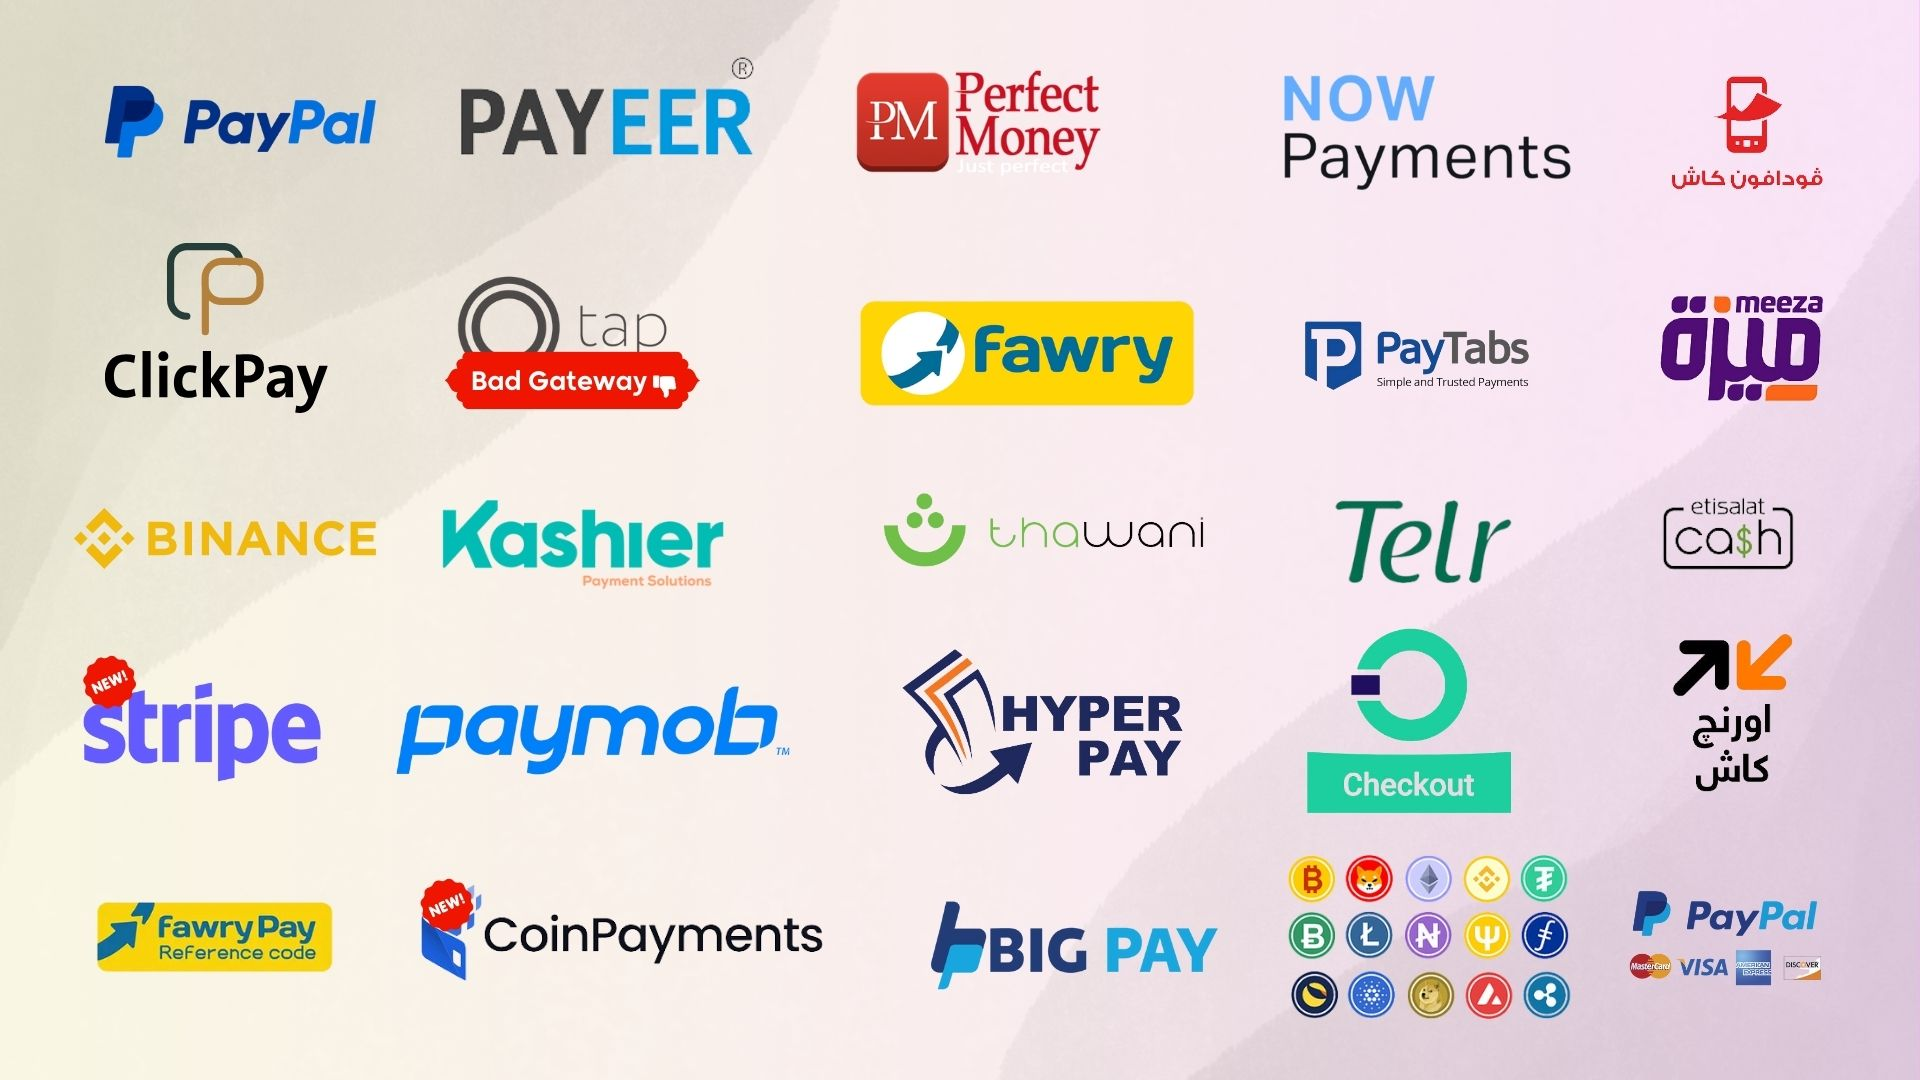
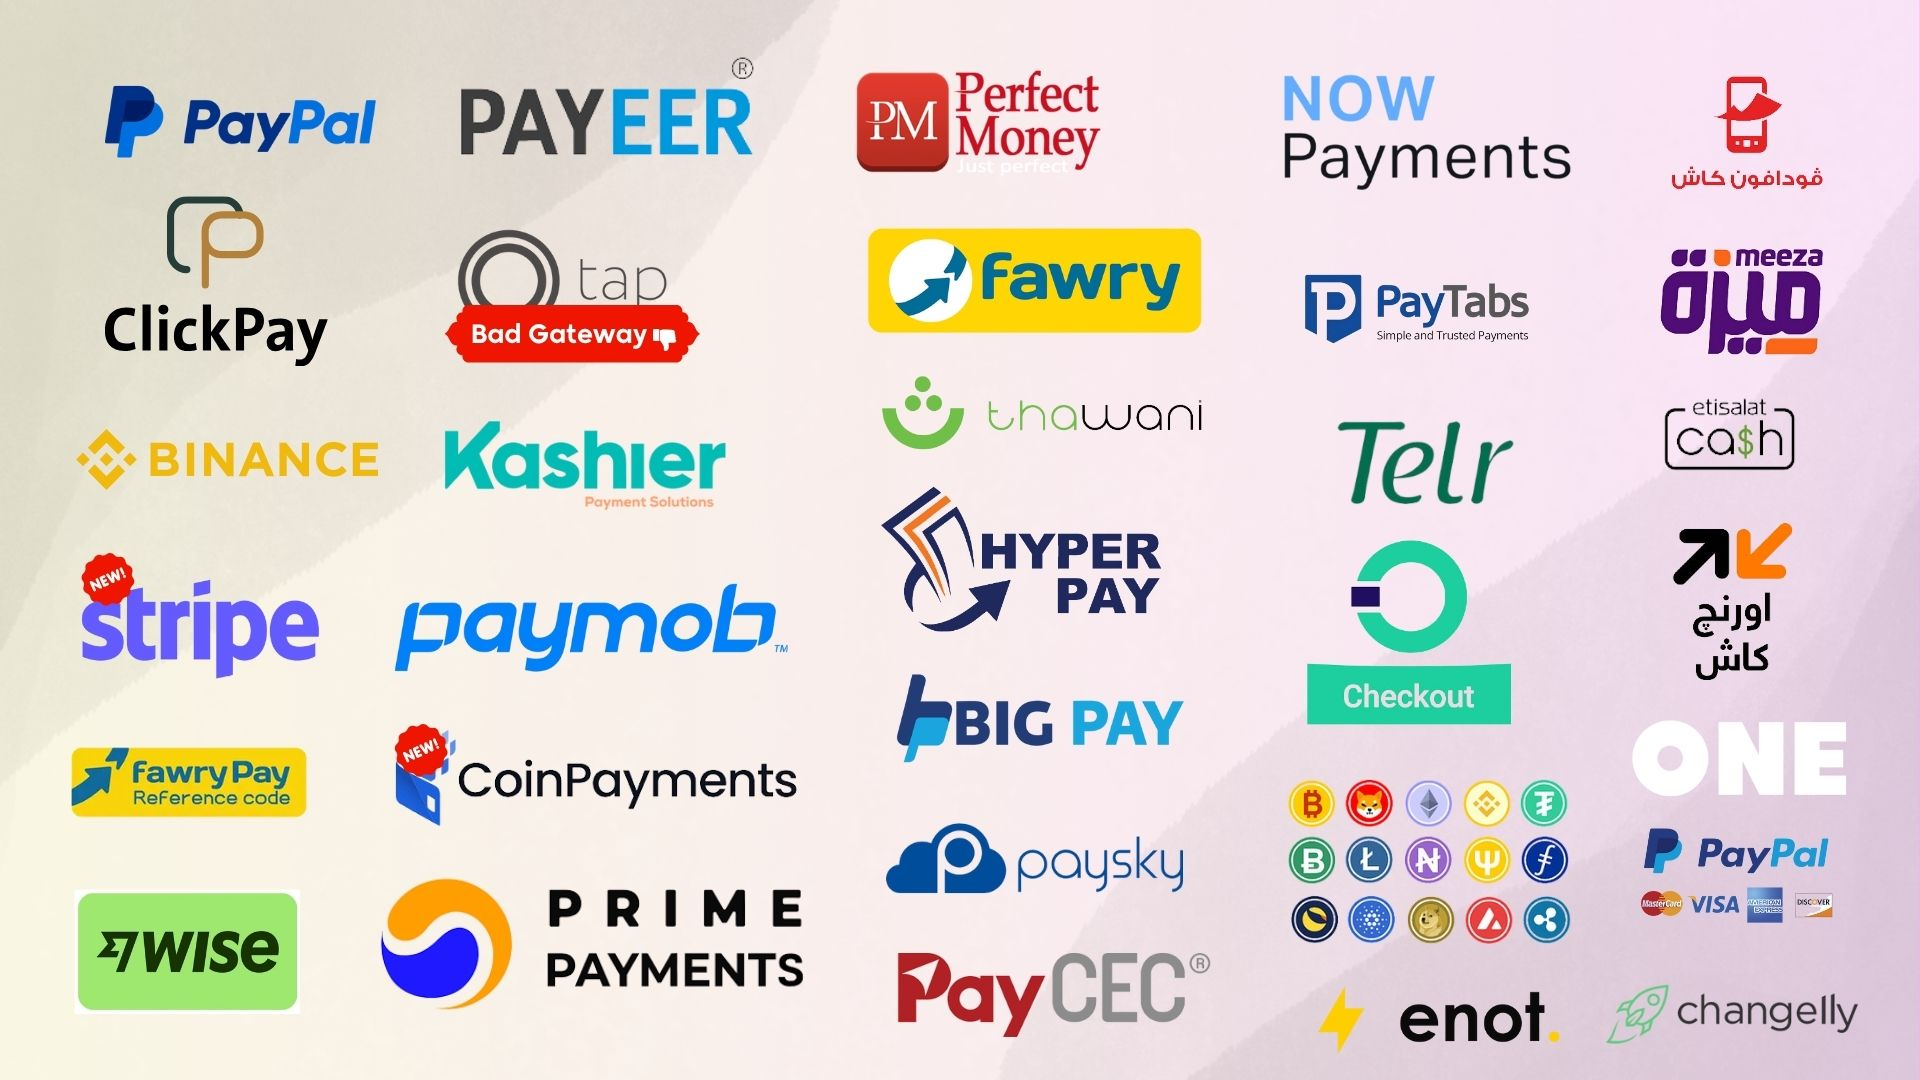
m

diff --git a/README.md b/README.md
@@ -4,15 +4,23 @@
 [![MIT License](https://img.shields.io/badge/License-MIT-green.svg)](https://choosealicense.com/licenses/mit/)
 [![Made With Love](https://img.shields.io/badge/Made%20With-Love-orange.svg)](https://github.com/chetanraj/awesome-github-badges)
 
-Payment Helper of Payment Gateways ( PayPal - Paymob - Fawry - Thawani - WeAccept - Kashier - Hyperpay - Tap - Opay - Paytabs - Vodafone Cash - Orange Money - Meza Wallet - Etisalat Cash)
-![gateways.jpg](https://github.com/nafezly/payments/blob/master/gateways.jpg?raw=true&v=8)
+A unified payment helper and wrapper supporting global and regional payment gateways:
+
+PayPal, Stripe, Paymob, Fawry, HyperPay, Thawani, Tap, Opay, PayTabs, Binance, CoinPayments, PerfectMoney, Cryptomus, Payrexx, Wise, Changelly, OneLat, Kashier — including mobile wallets (Vodafone Cash, Orange Money, Etisalat Cash, Meeza Wallet), and more.
+
+![gateways.jpg](https://github.com/nafezly/payments/blob/master/gateways.jpg?raw=true&v=9)
 
 
 ## Supported gateways
 
+## Supported Gateways
+
 - [PayPal](https://paypal.com/)
+- [PayPal Credit Cards](https://developer.paypal.com/docs/checkout/standard/)
+- [Stripe](https://stripe.com/)
 - [PayMob](https://paymob.com/)
 - [WeAccept](https://paymob.com/)
+- [Paymob Wallets (Vodafone Cash / Orange Money / Etisalat Cash / Meeza Wallet)](https://paymob.com/)
 - [Kashier](https://kashier.io/)
 - [Fawry](https://fawry.com/)
 - [HyperPay](https://www.hyperpay.com/)
@@ -20,20 +28,26 @@ Payment Helper of Payment Gateways ( PayPal - Paymob - Fawry - Thawani - WeAccep
 - [Tap](https://www.tap.company/)
 - [Opay](https://www.opaycheckout.com/)
 - [Paytabs](https://site.paytabs.com/)
-- [Binance](https://www.binance.com/en)
-- [PerfectMoney](https://PerfectMoney.com/)
-- [NowPayments](https://NowPayments.io/)
-- [Payeer](https://payeer.com)
-- [Telr](https://telr.com)
-- [Clickpay](https://clickpay.com.sa/)
-- [Coinpayments](https://www.coinpayments.net/)
+- [Binance](https://www.binance.com/)
+- [PerfectMoney](https://perfectmoney.com/)
+- [NowPayments](https://nowpayments.io/)
+- [NowPayments Invoice](https://nowpayments.io/)
+- [Payeer](https://payeer.com/)
+- [Telr](https://telr.com/)
+- [ClickPay](https://clickpay.com.sa/)
+- [CoinPayments](https://www.coinpayments.net/)
 - [BigPay](https://www.big-pay.com/)
 - [Enot](https://enot.io/)
-- [PAYCEC](https://www.paycec.com/eg-en)
-- [PayPal Credit Cards](https://developer.paypal.com/docs/checkout/standard/)
-- [Payrexx](https://payrexx.com/en/)
-- [Creptomus](https://cryptomus.com/)
-- [E Wallets (Vodafone Cash - Orange Money - Meza Wallet - Etisalat Cash)](https://paymob.com/)
+- [PAYCEC](https://www.paycec.com/)
+- [Payrexx](https://payrexx.com/)
+- [Cryptomus](https://cryptomus.com/)
+- [PaySky](https://paysky.io/)
+- [Prime Payments](https://primepayments.com/)
+- [Wise](https://wise.com/)
+- [OneLat](https://one.lat/)
+- [Changelly](https://changelly.com/)
+- [YallaPay](https://yallapay.io/)
+
 
 ## Installation
 
